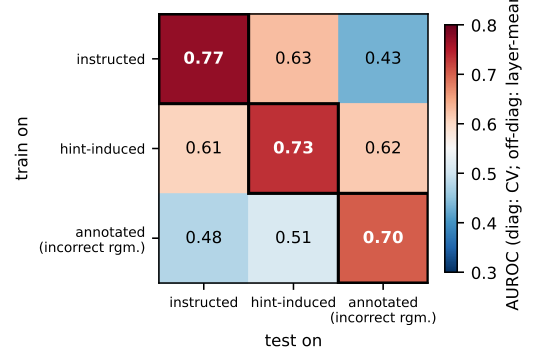
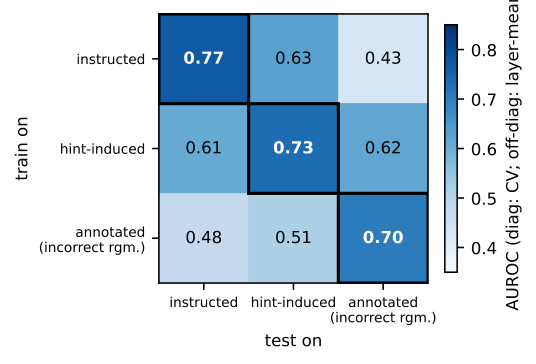
Heatmap: adopt faded Blues colormap from PR #5 (ported to figs3 pipeline)

diff --git a/paper/make_paper_figs3.py b/paper/make_paper_figs3.py
@@ -76,12 +76,12 @@ for i, tr in enumerate(names):
     for j, te in enumerate(names):
         M[i, j] = b3["own_best"][tr]["cv"] if tr == te else b3["transfers"][f"{tr}->{te}"]["mean"]
 fig, ax = plt.subplots(figsize=(3.1, 2.7))
-im = ax.imshow(M, cmap="RdBu_r", vmin=0.3, vmax=0.8)
+im = ax.imshow(M, cmap="Blues", vmin=0.35, vmax=0.85)   # faded sequential (cf. PR #5)
 for i in range(3):
     for j in range(3):
         ax.text(j, i, f"{M[i,j]:.2f}", ha="center", va="center", fontsize=8.5,
                 fontweight="bold" if i == j else "normal",
-                color="white" if abs(M[i, j] - 0.55) > 0.13 else "black")
+                color="white" if M[i, j] > 0.66 else "black")
         if i == j:
             ax.add_patch(plt.Rectangle((j - .5, i - .5), 1, 1, fill=False, ec="k", lw=1.6))
 ax.set_xticks(range(3)); ax.set_xticklabels(disp, fontsize=7)